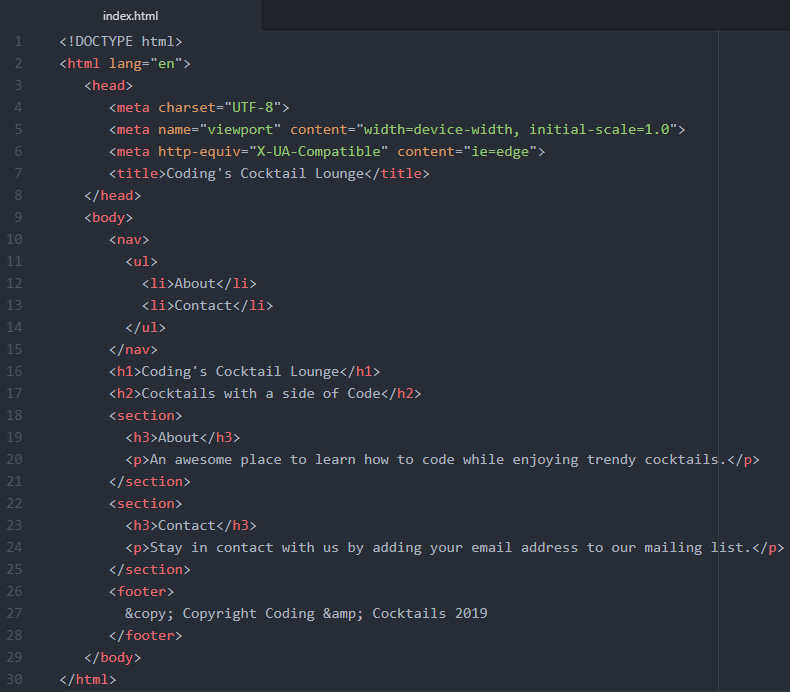
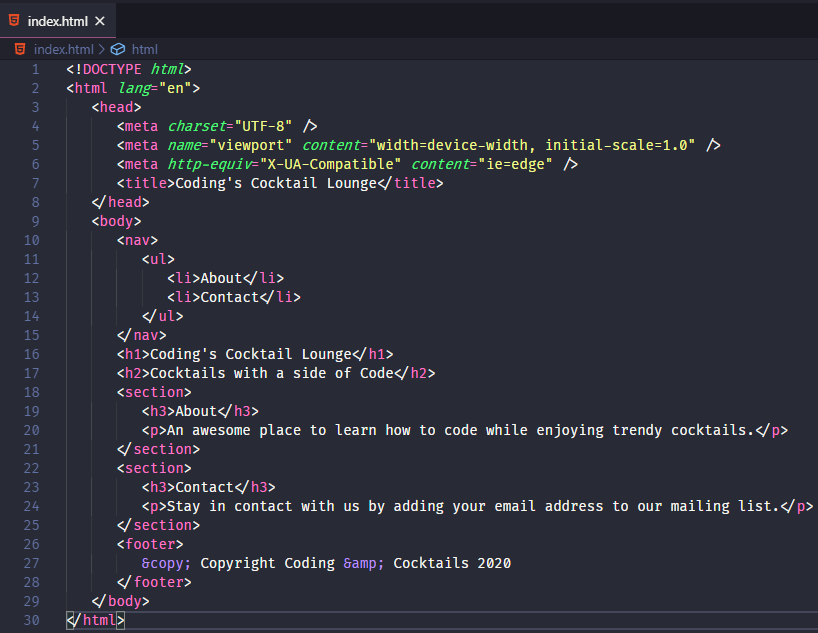
Convert html to use VS Code

Changed region(s): [[0.0, 0.0, 1.0, 1.0], [0.0304, 0.3002, 0.0608, 0.3302]]

diff --git a/book/ws1-architecture/3references.md b/book/ws1-architecture/3references.md
@@ -1,4 +1,4 @@
-1. Open Visual Studio Code (VS Code) from your installed applications. You can close all the default tabs that display. In VS Code, select **File** <i class="fa fa-long-arrow-right"></i> **Open folder**. Navigate to and select the "architecture" folder. 
+1. Open Visual Studio Code (VS Code) from your installed applications. You can close all the default tabs that display. In VS Code, select **File** ![](../images/arrow-right.svg) **Open Folder...**. Navigate to and select the "architecture" folder. 
 
 1. In VS Code, expand the "architecture" folder in the **EXPLORER** pane and double click _index.html_ to open it for editing. Your VS Code editor should look like the picture below.
 
@@ -23,14 +23,14 @@ The `<!--   -->` wraps a comment in HTML. We'll learn more about it tonight.
    
    ![](images/code-after.png)
 
-1. Save your file to see your work by selecting **File** <i class="fa fa-long-arrow-right"></i> **Save** in Atom. You can also use the keyboard shortcut `ctrl + s` on Windows or `cmd + s` on Mac. Unsaved files in Atom have a little blue dot on tab.
-   ![](images/atom.png)
+1. Save your file to see your work by selecting **File** ![](../images/arrow-right.svg) **Save** in VS Code. You can also use the keyboard shortcut `ctrl + s` on Windows or `cmd + s` on Mac. Unsaved files in VS Code have a little dot on tab of the file and in the **EXPLORER** pane.
+   ![](images/vs-code-save.png)
 
 1. In Chrome, reload _index.html_. Wow! The page looks so different with styles! ![](../images/emojis/party-popper.png)
 
-1. In Atom, go through the rest of the _index.html_ file and make the same necessary changes for the other lines beginning with  `<!-- REPLACE DIR PATH`. Feel free to save and inspect your work in Chrome as you go along. Once done, save _index.html_.
+1. In VS Code, go through the rest of the _index.html_ file and make the same necessary changes for the other lines beginning with  `<!-- REPLACE DIR PATH`. Feel free to save and inspect your work in Chrome as you go along. Once done, save _index.html_.
   {% hint style='tip' %}
-If you can't remember the folder names, you can expand the "architecture" folder in Atom's **Project** pane.
+If you can't remember the folder names, you can expand the "architecture" folder in VS Code's **EXPLORER** pane.
   {% endhint %}
 
   {% hint style='tip' %}

diff --git a/book/references/README.md b/book/references/README.md
@@ -3,18 +3,35 @@
 
 <!-- trick markdown to give me a little space between these two sections of text -->
 ## 
-### Atom Keyboard Shortcuts 
-| Command | Windows Key Combination | Mac Key Combination |
-| --- | --- | --- |
-| Select all | `ctrl` + `a` | `cmd` + `a` |
-| Cut | `ctrl` + `x` | `cmd` + `x` |
-| Copy | `ctrl` + `c` | `cmd` + `c` |
-| Paste | `ctrl` + `v` | `cmd` + `v` |
-| Undo | `ctrl` + `z` | `cmd` + `z` |
-| Save | `ctrl` + `s` | `cmd` + `s` |
-| Comment selected lines | `ctrl` + `/` | `cmd` + `/` |
-| Untab one or more lines | `shift` + `tab` | `shift` + `tab` |
-| Move a line up or down | `ctrl` + `shift` + `up or down arrow keys` | `ctrl` + `cmd` + `up or down arrow keys` |
-| Multi-cursor - make edits in several places at once. | `ctrl` + `d` | `cmd` + `d` |
-| Open Preferences | `ctrl` + `,` | `cmd` + `,` |
+### VS Code Keyboard Shortcuts 
+
+{% hint style='info' %}
+Too many keyboard shortcuts?
+
+You can type what you're looking for in the **Command Palette**. Open the Command Palette by selecting **View** ![](../images/arrow-right.svg) **Command Palette...** and type the action you want to do.
+
+To open the Command Palette quickly, use the keyboard shortcut `ctrl` + `shift` + `p`.
+{% endhint %}
+
+**Helpful Keyboard Shortcuts**
+
+| Command | Mac Key Combination | Windows Key Combination |
+| :--- | :--- | :--- |
+| Open Command Palette | `ctrl` + `shift` + `p` | `ctrl` + `shift` + `p` |
+| Select all | `cmd` + `a` | `ctrl` + `a` |
+| Cut | `cmd` + `x` | `ctrl` + `x` |
+| Copy | `cmd` + `c` | `ctrl` + `c` |
+| Paste | `cmd` + `v` | `ctrl` + `v` |
+| Undo | `cmd` + `z` | `ctrl` + `z` |
+| Save | `cmd` + `s` | `ctrl` + `s` |
+| Toggle comment | `cmd` + `f` | `ctrl` + `f` |
+| Go to file | `cmd` + `p` | `ctrl` + `p` |
+| Open terminal pane | `ctrl` + \` | `ctrl` + \` |
+| Create new terminal | `ctrl` + `shift` + \` | `ctrl` + `shift` + \` |
+| Auto-format file | `shift` + `option` + `f` | `shift` + `alt` + `f` |
+| Auto-format selection | `cmd`+ `k` `cmd` + `f` | `ctrl`+ `k` `ctrl` + `f` |
+| Indent | `cmd` + `]` | `ctrl` + `]` |
+| Outdent line | `cmd` + `[` | `ctrl` + `[` |
+
+**Need more info?** Refer to [VS Code's Documentation](https://code.visualstudio.com/docs/getstarted/tips-and-tricks).
 

diff --git a/book/ws4-html-attributes/3input.md b/book/ws4-html-attributes/3input.md
@@ -1,4 +1,4 @@
-1. In Atom, find the "Contact" section in your _index.html_ and add a new line after the paragraph element.
+1. In VS Code, find the "Contact" section in your _index.html_ and add a new line after the paragraph element.
 
 1. We want to display a label so people know to put their email address in the input. Labels have their own HTML element, `<label>`. Add a `<label>` tag. Between the opening and closing `<label>` tag, add text for the label, such as "Email".
 
@@ -6,7 +6,7 @@
 Using a `label` for HTML input is best practice for assistive technologies. Labels help describe the input control to provide correct semantics and also helps apply focus on the input control automatically.
   {% endhint %}
 
-1. Now we use an attribute to help tie 2 HTML elements together. The `for` attribute specifies the id of the control to tie it to (which we will create soon). Inside the opening `<label>` tag, add a`for` attribute and set the value to "email", like you did for the image `src` attribute and the filename of the image. 
+1. Now we use an attribute to help tie HTML elements together. The `for` attribute specifies the id of the control to tie it to (which we will create soon). Inside the opening `<label>` tag, add a`for` attribute and set the value to "email", like you did for the image `src` attribute and the filename of the image. 
 
    {% hint style="working" %}
 <details>
@@ -24,7 +24,7 @@ Inside the opening <code>&lt;label&gt;</code> tag, type <code>for="email"</code>
 
 1. Save your file and preview it in Chrome. Do you see your "Email" label right above the footer?
 
-1. Let's add the email input! In Atom, add a new line after the `<label></label>` element.
+1. Let's add the email input! In VS Code, add a new line after the `<label></label>` element.
 
 1. Inputs have their own HTML element called `<input>` and are **self-closing**. All the information the input needs are in attributes. Type `<input />`. 
 

diff --git a/book/ws2-html-structure/4view.md b/book/ws2-html-structure/4view.md
@@ -1,12 +1,12 @@
-1. Now we want to preview the _index.html_ file in Chrome. Instead of saving and reloading the page like we did earlier, we'll use the atom plugin **atom-live-server**. This package opens up the web page in your default web browser and reloads the page whenever you save files. In Atom, start the live server by selecting **Packages** <i class="fa fa-long-arrow-right"></i> **atom-live-server**. Select **Start server**. A browser tab will open.
+1. Now we want to preview the _index.html_ file in Chrome. Instead of saving and reloading the page like we did earlier, we'll use the VS Code plugin **Live Server**. This extension opens up the web page in your default web browser and reloads the page whenever you save files. In VS Code, start the live server by right clicking on _index.html_ in the **EXPLORER** pane and selecting **Open with Live Server**. A browser tab will open.
    {% hint style='danger' %}
-If you don't have the **atom-live-server** package, take a moment to [set up your workspace](/setup).
+If you don't have the **Live Server** option, take a moment to [set up your workspace](/setup).
    {% endhint %}   
 
    {% hint style='danger' %}
 If the tab opens in another browser, copy the URL and paste it into a new tab in Chrome. The reload will automatically happen in Chrome.
 
-If you get an access warning, click "Allow" to let **atom-live-server** serve the application.
+If you get an access warning, click "Allow" to let **Live Server** serve the application.
 
 If you are borrowing a laptop and get an access warning, please contact a member of the Coding & Cockails leadership team for access.
    {% endhint %}   

diff --git a/book/ws4-html-attributes/4link.md b/book/ws4-html-attributes/4link.md
@@ -1,4 +1,4 @@
-1. Links use the anchor element, `<a>`. We'll wrap the list items "About" and "Contact" in the navbar to link to their respective sections. In Atom, place your cursor after the opening `<li>` tag and before the text **"About"** and type `<a>` to create a the anchor tag. Add the closing `</a>` after the text. The **"About"** text should now look like this:
+1. Links use the anchor element, `<a>`. We'll wrap the list items "About" and "Contact" in the navbar to link to their respective sections. In VS Code, place your cursor after the opening `<li>` tag and before the text **"About"** and type `<a>` to create a the anchor tag. Add the closing `</a>` after the text. The **"About"** text should now look like this:
 
     {% filename %}index.html{% endfilename %}
     ```html
@@ -24,7 +24,7 @@ Feel free to talk it through with your mentor prior to moving on to the next ste
 Since we don't have a lot of content on our page it may not appear to work at first. If you shrink the size of your browser window down so it is about half as tall, try clicking on the "About" navigation item again and the "about" section should show at the top!
    {% endhint %}
 
-1. Now let's do "Contact". In Atom, repeat the same steps we took for the "About" section but apply it to "Contact". Don't forget you have to add the anchor and update the id for the section.
+1. Now let's do "Contact". In VS Code, repeat the same steps we took for the "About" section but apply it to "Contact". Don't forget you have to add the anchor and update the id for the section.
 
    {% hint style="working" %}
 <details>

diff --git a/book/ws2-html-structure/1file.md b/book/ws2-html-structure/1file.md
@@ -1,12 +1,11 @@
 1. Using the file explorer, in the "CodingAndCocktails/session1" folder you created during the tools setup, create a new folder named "html".
 
-1. In Atom, select **File** <i class="fa fa-long-arrow-right"></i> **Add project folder**. Navigate to and select the "CodingAndCocktails/session1/html" folder.
-   {% hint style="tip" %}
-Close all the tabs from the last section of the worksheet and close the "architecture" project folder. Remove the "architecture" folder from showing up in Atom by right clicking on the "architecture" folder and select **Remove Project Folder**.
+1. In VS Code, select **File** ![](../images/arrow-right.svg) **Open Folder...**. Navigate to and select the "CodingAndCocktails/session1/html" folder.
 
-   ![](images/atom-remove-project-folder.png)
-   {% endhint %}
+1. Create a file called _index.html_. In VS Code's **EXPLORER** pane, hover over **HTML** to display action buttons. Click the **New File** button.
 
-1. In Atom's **Project** pane, right click on the "html" folder and select **New file**.
+  ![](images/vs-code-new-file.png)
 
-1. Name the file _index.html_ and press `Enter` to save it in your "CodingAndCocktails/session1/html" folder.
+1. In the text box that appears, name the file _index.html_ and press `Enter` to save it in your "CodingAndCocktails/session1/html" folder.
+
+   ![](images/vs-code-name-file.png)

diff --git a/book/ws3-html-tags/1headers.md b/book/ws3-html-tags/1headers.md
@@ -1,4 +1,4 @@
-1. In Atom, place your cursor on the blank line between `<body>` and `</body>`.
+1. In VS Code, place your cursor on the blank line between `<body>` and `</body>`.
    {% hint style="info" %}
 Most HTML elements have an opening and closing tag. The `<body>` tag is the opening tag. The `</body>` tag closes that element.
    {% endhint %}
@@ -9,11 +9,11 @@ The worksheet will specify adding new HTML elements between the opening and clos
 
 1. Add a header by typing `<h1></h1>`. Write the name of your cocktail lounge between the opening and closing tags.
 
-1. Save your file. The file should reload automatically in Chrome when you have atom-live-server running. Take a look at your webpage. **We have content!**
+1. Save your file. The file should reload automatically in Chrome when you have Live Server running. Take a look at your webpage. **We have content!**
 
    ![](https://media.giphy.com/media/3o6gEeg80PqeJBtsdy/giphy.gif)
 
-1. In Atom, after the closing `</h1>` tag, press `Enter` to start a new line and add an `<h2>` tag for a subtitle.
+1. In VS Code, after the closing `</h1>` tag, press `Enter` to start a new line and add an `<h2>` tag for a subtitle.
 
 1. Add the text "Cocktails with a side of Code". The body section should look something like this
    {% filename %}index.html{% endfilename %}

diff --git a/book/homework/troubleshooting.md b/book/homework/troubleshooting.md
@@ -10,7 +10,7 @@ Join the KCWiT #codingandcocktails Slack Channel: [kcwit.slack.com](http://kcwit
 ### Troubleshooting Exercises
 Try some troubleshooting so you can feel more confident coding on your own!
 
-1.  Open a new file in Atom and save it in your "CodingAndCocktails/session1/html" folder as *troubleshooting.html*
+1.  Open a new file in VS Code and save it in your "CodingAndCocktails/session1/html" folder as *troubleshooting.html*
 
 2.  Paste the following code into the file
 
@@ -57,7 +57,7 @@ Try some troubleshooting so you can feel more confident coding on your own!
 1.  The first thing to fix is that our image is not displayed underneath the first paragraph.  See if you can make the image show up by editing the HTML. 
 
    {% hint style='tip' %}
-Remember to save and refresh the page in Google Chrome to see your changes or run atom-live-server.
+Remember to save and refresh the page in Google Chrome to see your changes or run Live Server.
    {% endhint %}
 
 1. Update the list of items to use an HTML ordered list so our webpage has the correct structure.

diff --git a/book/ws2-html-structure/2structure.md b/book/ws2-html-structure/2structure.md
@@ -1,4 +1,4 @@
-1. In the **Project** pane, double click on the _index.html_ file to open it.
+1. VS Code should open the _index.html_ file for you in the editor.
 
 1. Copy the following code snippet and paste it into your _index.html_ file.
 
@@ -20,7 +20,7 @@
    {% hint style="working" %}
 Take a look at the spacing in the file. Some tags, such as `head` and `body` indent from their parent tag, `html`. This means they are children of the `html` tag. Can you match up the start and end of the `head`, `body`, and `html` tags?
 
-The `meta` and `title` tags are also children. What tag is `meta` and `title`'s parent? Feel free to grab a mentor to talk out the answers to these questions. They LOVE to help and act as soundboard!
+The `meta` and `title` tags are also children. What tag is `meta` and `title`'s parent? Feel free to grab a mentor to talk out the answers to these questions. They LOVE to help and act as a soundboard!
    {% endhint %}
    
 1. Save the file.

diff --git a/book/ws2-html-structure/3head.md b/book/ws2-html-structure/3head.md
@@ -1,4 +1,4 @@
-1. In Atom, change the text between the `<title></title>` tags. The title displays on the browser tab. Tonight we'll make a Cocktail Lounge site so change the text from "Document" to "YourName's Cocktail Lounge".
+1. In VS Code, change the text between the `<title></title>` tags. The title displays on the browser tab. Tonight we'll make a Cocktail Lounge site so change the text from "Document" to "YourName's Cocktail Lounge".
    {% hint style="info" %}
 The title is in the `head` section. The `head` section contains data telling your browser more information about your page. This is also where you link to your styles and script files.
    {% endhint %}

diff --git a/book/ws4-html-attributes/1download-image.md b/book/ws4-html-attributes/1download-image.md
@@ -5,7 +5,7 @@
 
 3. Change the license filter from "Any License" to "Commercial use allowed".
 
-4. Choose your favorite image, click on it and click on the download icon in the lower right corner.  You get to choose what size you'd like on your page. You'll want to save it into your "CodingAndCocktails/session1/html" folder.  Name it something easy to remember.
+4. Choose your favorite image, click on it and click on the download icon in the lower right corner. You get to choose what size you'd like on your page. You'll want to save it into your "CodingAndCocktails/session1/html" folder.  Name it something easy to remember.
 
     ![](images/download.png)
 

diff --git a/book/bonus-styling.md b/book/bonus-styling.md
@@ -17,7 +17,7 @@ Need a hint?
 A stylesheet is a **CSS** file. What folder structure did you use in the front-end architecture section to store CSS files? 
    {% endhint %}
 
-1. In Atom, create a file named _main.css_ inside the new folder you created.
+1. In VS Code, create a file named _main.css_ inside the new folder you created.
 
 1. In a new browser tab, navigate to [Coding & Cocktails provided stylesheet](https://raw.githubusercontent.com/KansasCityWomeninTechnology/AnswerKeys/master/html/assets/css/main.css). Copy the contents of the file and paste it into _main.css_. Save _main.css_.
 
